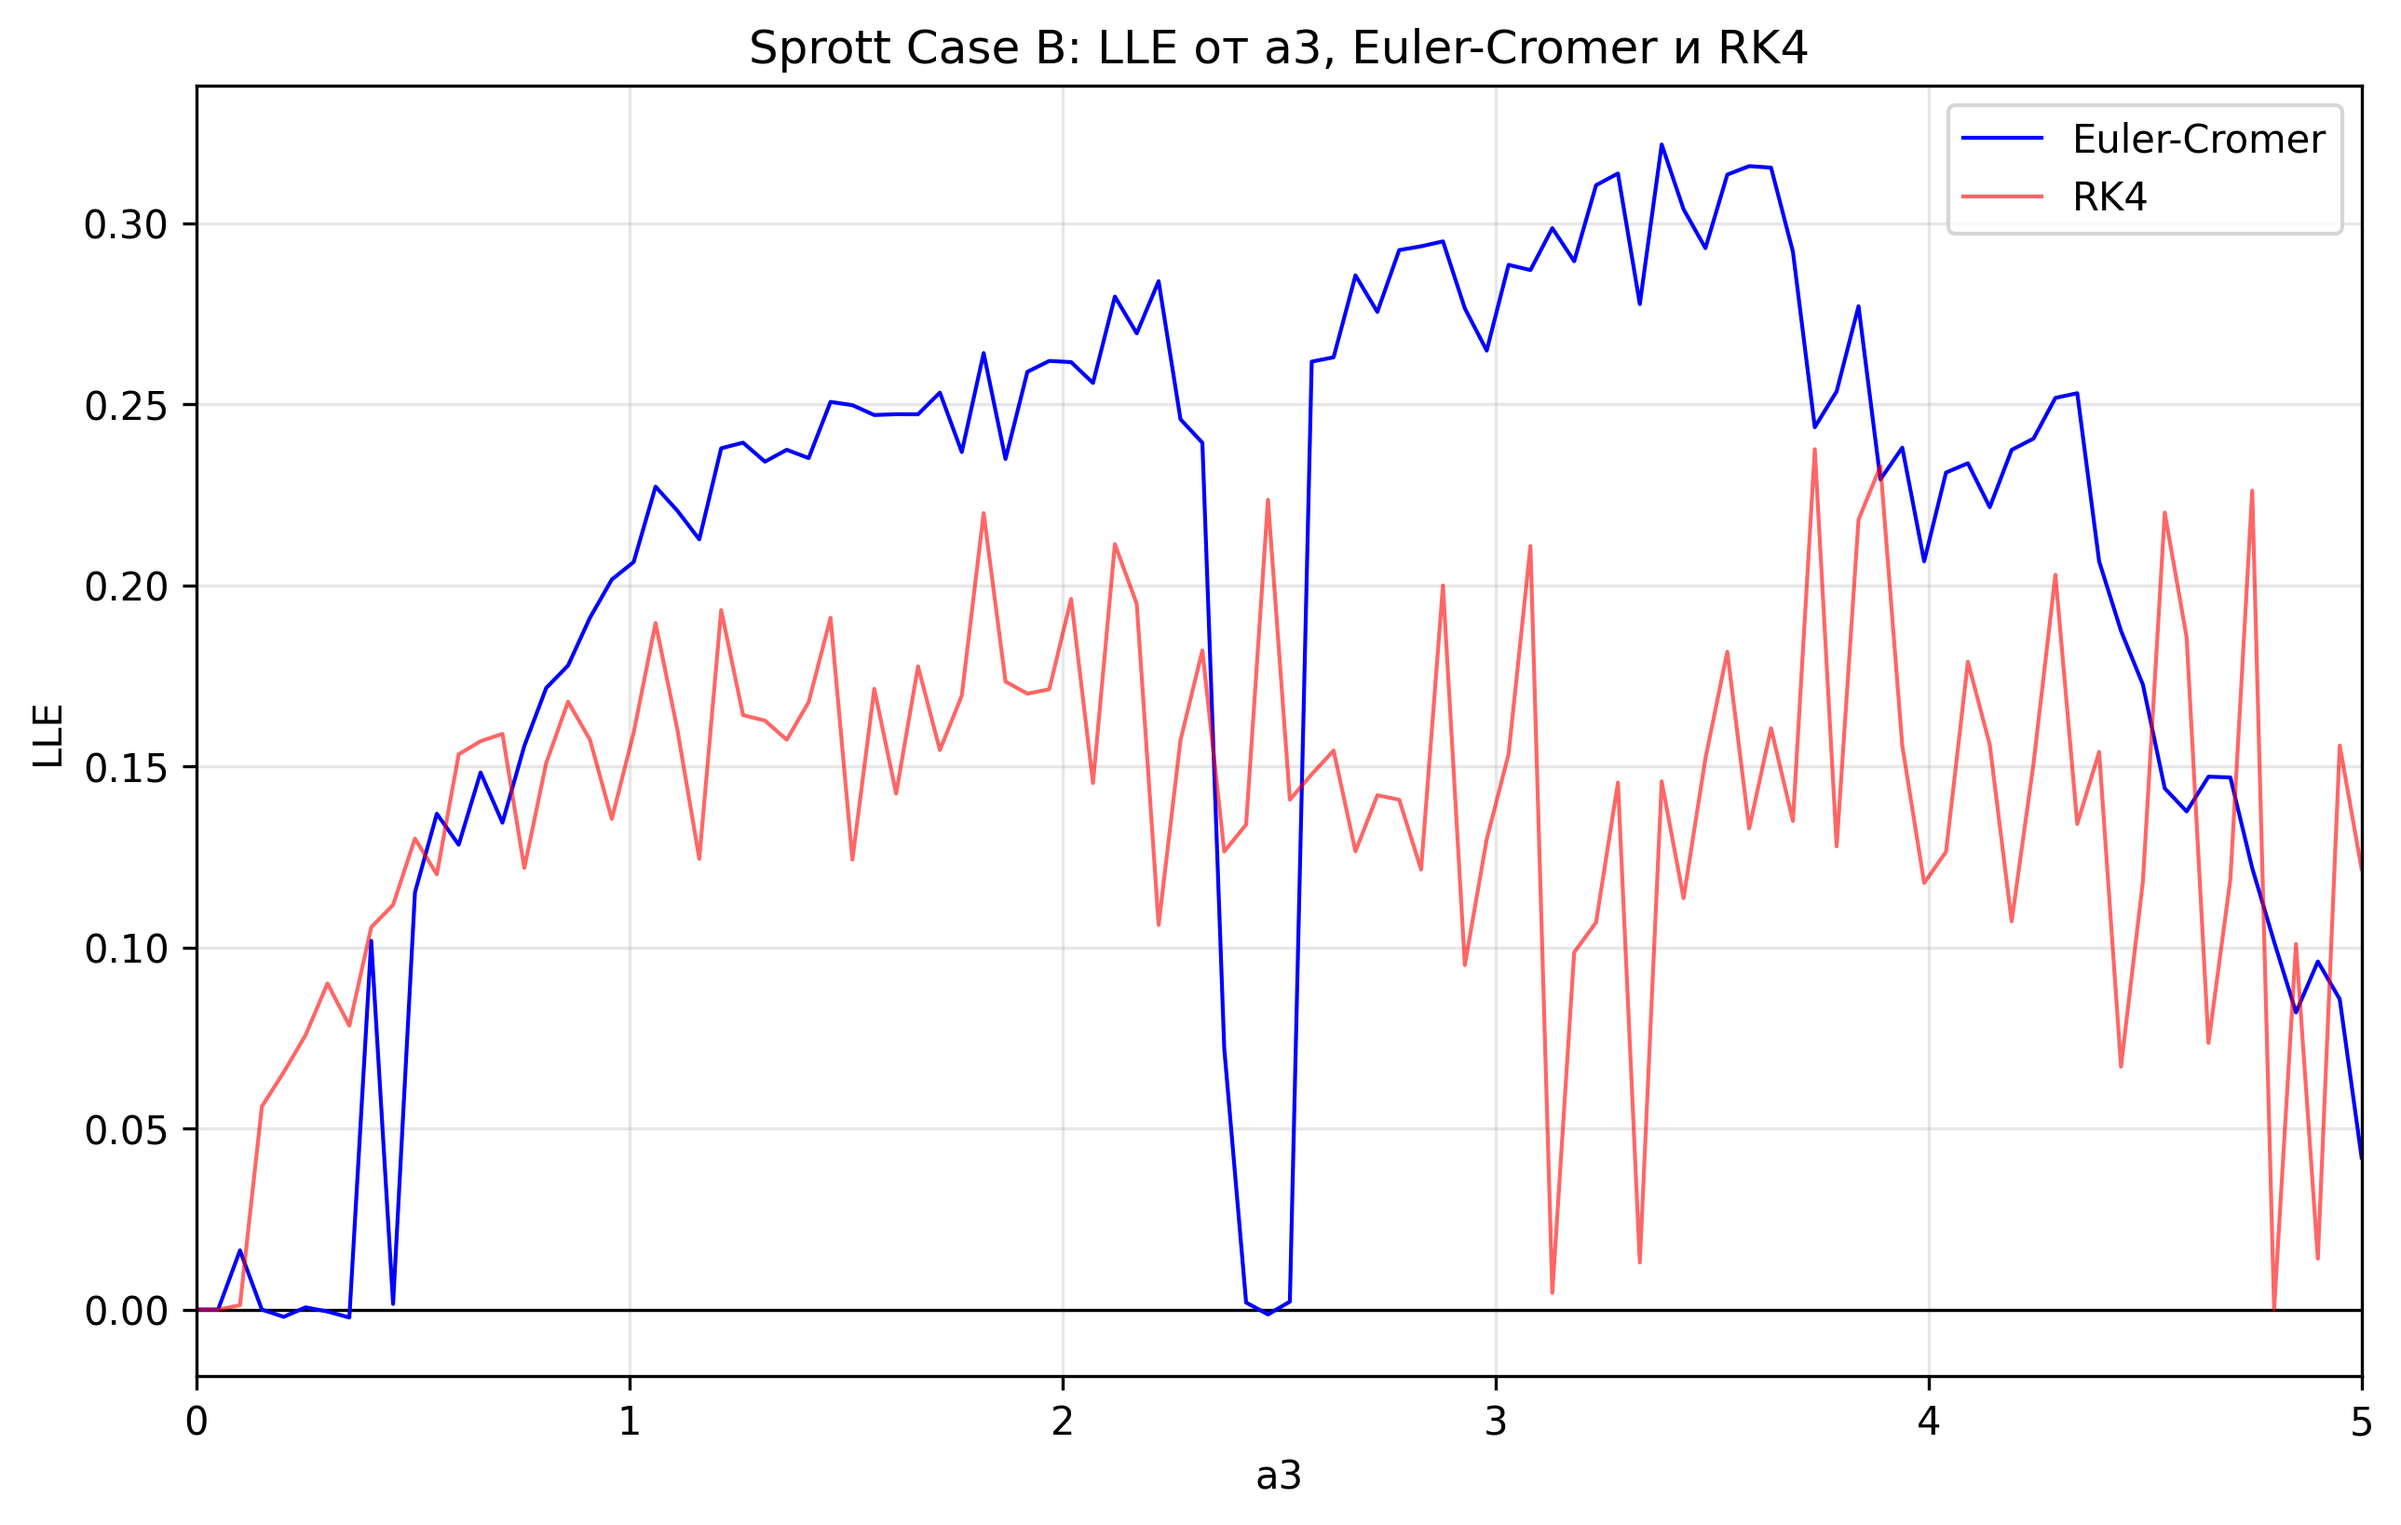
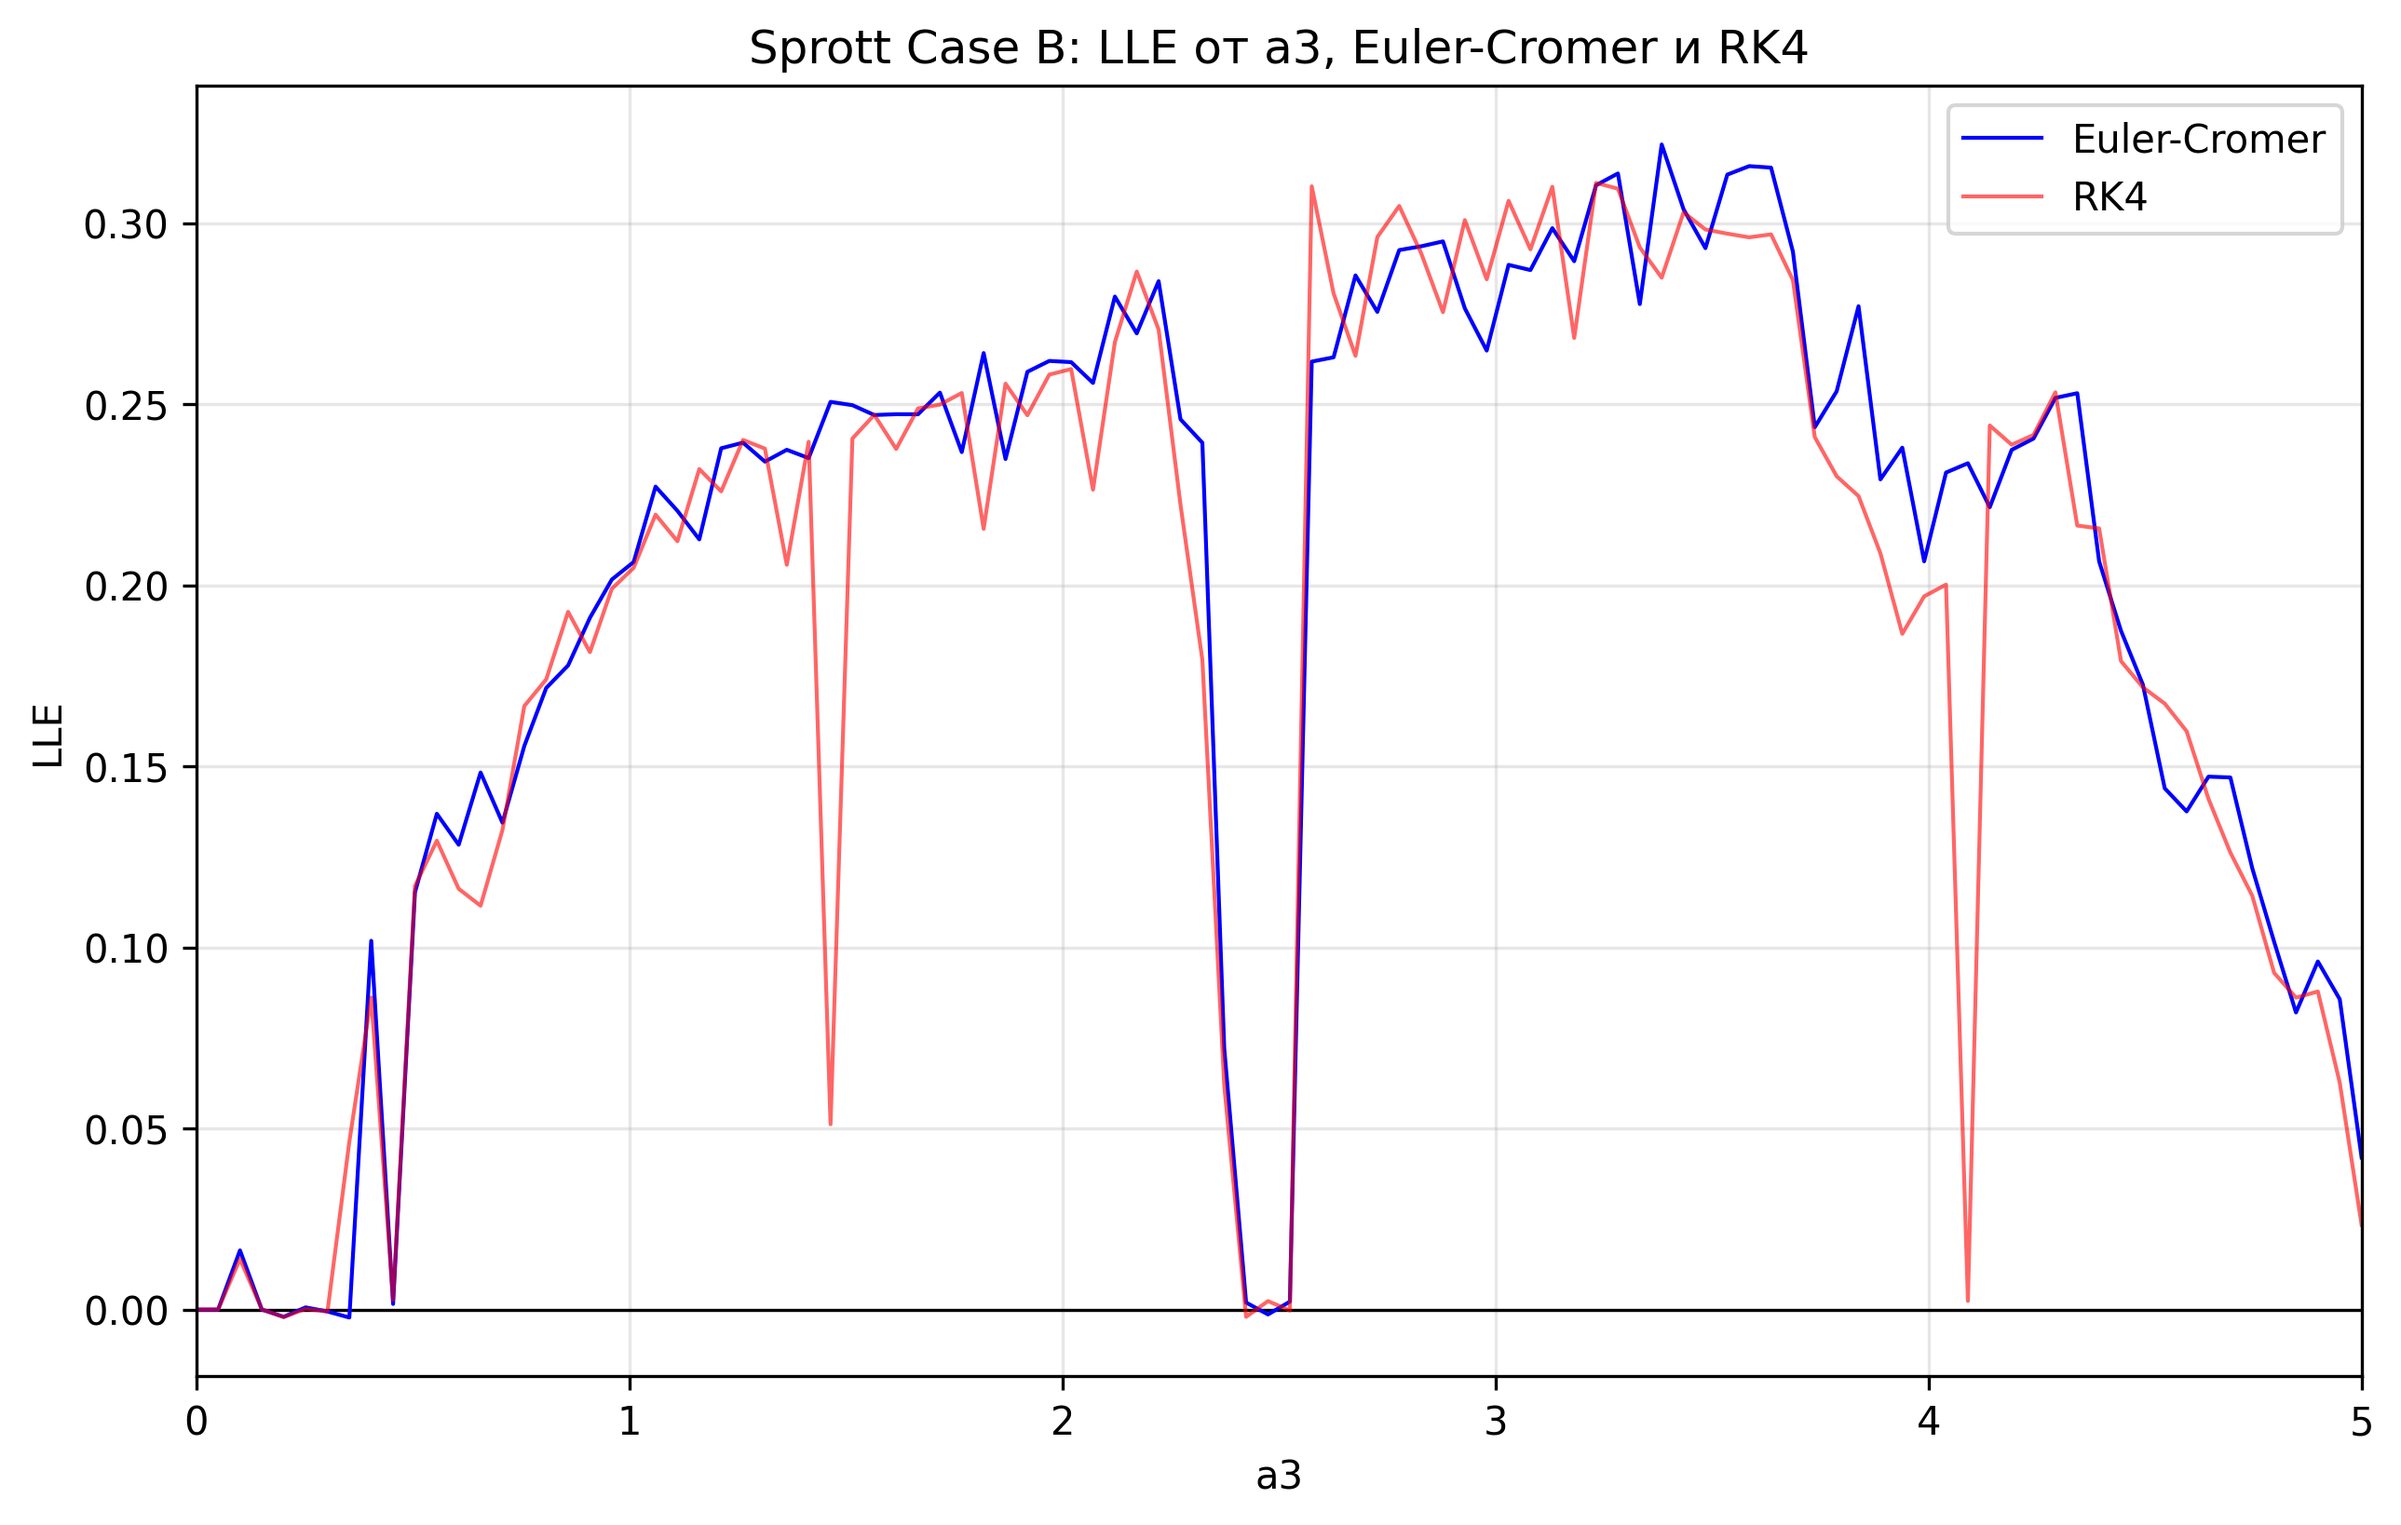
пофиксил kd и заново отрисовал графики

diff --git a/KD.py b/KD.py
@@ -19,22 +19,14 @@ def kd(f, u0, t0, t1, h, a1, a2, a3, s=0.5):
     for i in range(n):
         x, y, z = u[i]
 
-        x_new = x + h1 * a1 * y * z
-        y_new = y + h1 * (x_new - a2 * y)
-        z_new = z + h1 * (a3 - x_new * y_new)
+        x_m = x + h1 * a1 * y * z
+        y_m = y + h1 * (x_m - a2 * y)
+        z_m = z + h1 * (a3 - x_m * y_m)
 
-        u_half = np.array([x_new, y_new, z_new])
-        u_new = u_half.copy()
+        z_new = z_m + h2 * (a3 - x_m * y_m)
+        y_new = (y_m + h2 * x_m) / (1 + a2 * h2)
+        x_new = x_m + h2 * a1 * y_new * z_new
 
-        for _ in range(4):
-            k2 = f(u_new, a1, a2, a3)
-            u_new = u_half + h2 * k2
-
-        # y_n1 = (y_new + h2) / (1 + h2 * x_new)
-        # x_n1 = x_new + h2 * (y_n1 * z_new)
-        # z_n1 = z_new + h2 * (1 - x_n1 * y_n1)
-        # u_new = np.array([x_n1, y_n1, z_n1])
-
-        u[i + 1] = u_new
+        u[i + 1] = np.array([x_new, y_new, z_new])
 
     return t, u

diff --git a/1.py b/1.py
@@ -42,11 +42,10 @@ def f(u, a1, a2, a3):
     x = u[0]
     y = u[1]
     z = u[2]
-
     return np.array([
         a1 * y * z,
         x - a2 * y,
-        a3 - x * x
+        a3 - x * y
     ])
 
 

diff --git a/2.py b/2.py
@@ -44,11 +44,10 @@ def f(u, a1, a2, a3):
     x = u[0]
     y = u[1]
     z = u[2]
-
     return np.array([
         a1 * y * z,
         x - a2 * y,
-        a3 - x * x
+        a3 - x * y
     ])
 
 

diff --git a/3.py b/3.py
@@ -61,11 +61,10 @@ def f(u, a1, a2, a3):
     x = u[0]
     y = u[1]
     z = u[2]
-
     return np.array([
         a1 * y * z,
         x - a2 * y,
-        a3 - x * x
+        a3 - x * y
     ])
 
 

diff --git a/4.py b/4.py
@@ -52,7 +52,6 @@ def f(u, a1, a2, a3):
     x = u[0]
     y = u[1]
     z = u[2]
-
     return np.array([
         a1 * y * z,
         x - a2 * y,
